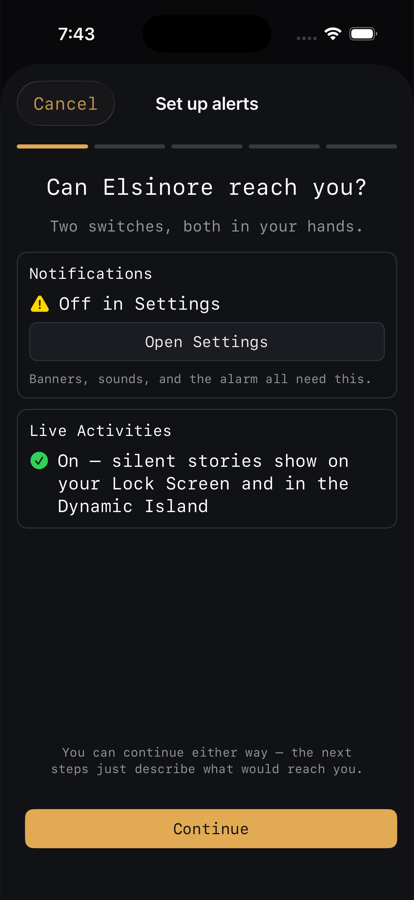
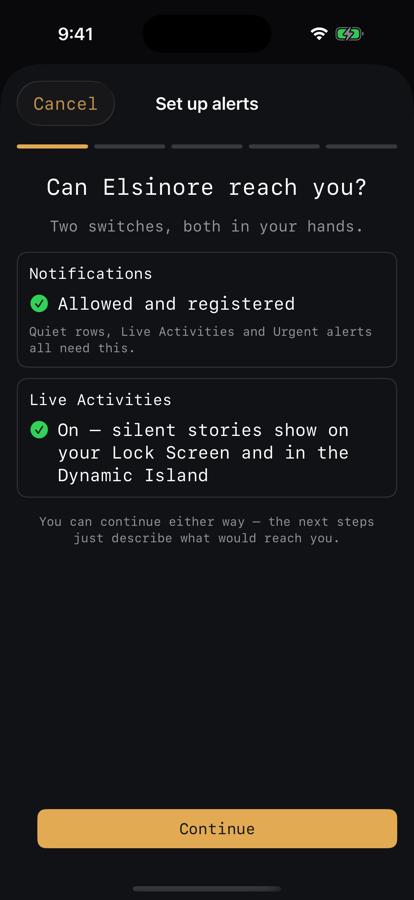
Elsinore help: new five-tab screenshots, a Review tab shot, current dates
Rebuilt from Elsinore main 69cca54 (PR #84).

diff --git a/Elsinore/docs/search-and-review.html b/Elsinore/docs/search-and-review.html
@@ -65,7 +65,7 @@
 recorded, newest first, with a search field over the top. The Review tab,
 <a href="#the-review-tab">described below</a>, shows the stories your server built from
 them.</p>
-<p><img alt="The Search tab on iPhone: a search field reading Camera, object, or zone, above a list of detections showing thumbnails, camera names such as gate-face and shed, detected objects, relative times, and an info button per row." class="shot" src="../img/search.png" /></p>
+<p><img alt="The Search tab on iPhone: a search field reading Camera, object, or zone, above a list of detections showing thumbnails, camera names such as alley-wide and gate-face, detected objects, relative times, and an info button per row." class="shot" src="../img/search.png" /></p>
 <h2 id="the-feed">The feed</h2>
 <p>One list, no tabs. Each row carries a thumbnail, the camera, the objects
 detected, how long ago it was, its severity, and an <strong>i</strong> button that opens
@@ -111,6 +111,7 @@ escalates in two stages:</p>
 <p>That second stage is what finds "person carrying a box" when no label says
 so.</p>
 <h2 id="the-review-tab">The Review tab</h2>
+<p><img alt="The Review tab on iPhone: the Review title with an Alerts and All switch, above large encounter cards; the top card is an Alert from 1 hour ago reading Person, Alley to Parking Area to Alley, with the cameras it crossed listed underneath." class="shot" src="../img/review.png" /></p>
 <p>Review shows the encounters your server assembled: large cards, newest
 first, with <strong>Alerts | All</strong> under the title and a divider where your last
 absence ended. Tap a card to expand it and play it in place (one at a time).
@@ -125,7 +126,7 @@ licence plate, Elsinore shows that name on the row, on the
 excluding bad sightings all happen in the sidecar's own web interface, not
 in the app. See <a href="sidecar.html#the-operator-manual">the sidecar's guide</a>.</p>
 <footer class="pagefoot">
-<p>Last updated: October 17, 2026</p>
+<p>Last updated: October 19, 2026</p>
 <p>Elsinore is not affiliated with the Frigate project. Contact:
 <a href="mailto:helicopterrun@gmail.com">helicopterrun@gmail.com</a></p>
 <p><a href="../index.html">Home</a> &middot; <a href="../support.html">Support</a> &middot;

diff --git a/Elsinore/docs/scrub.html b/Elsinore/docs/scrub.html
@@ -64,7 +64,7 @@
 </details>
 <p>Scrub is a vertical reel of recorded footage that you drag through, with the
 nearest event riding along above it.</p>
-<p><img alt="The Scrub reel on iPhone for the camera stairway-wide: a still frame at the top, a dossier card showing a person at 74 percent with an info tile and a camera tile, and below them a vertical reel marked with the current time 8:56:46p and object glyphs." class="shot" src="../img/scrub.png" /></p>
+<p><img alt="The Scrub page on iPhone for the camera gate-face: the picture at the top; below it the Previous and Next chips, REPLAY, LIVE, and a dossier card showing a person at 76 percent with an info tile and a camera tile; below them the vertical reel marked with the time 9:11:36a and event glyphs." class="shot" src="../img/scrub.png" /></p>
 <h2 id="images-to-find-video-to-confirm">Images to find, video to confirm</h2>
 <p>The reel is built on still frames, not video. Finding the moment you want is
 an image problem: you recognise a shape in a thumbnail far faster than you
@@ -166,7 +166,7 @@ right. Hover for a larger still, click to jump there, and pinch to change the
 zoom. The <strong>Explore</strong> button in the toolbar (Command-Shift-E) adds a timeline
 of every camera; see <a href="investigate.html#explore-on-the-mac">Explore on the Mac</a>.</p>
 <footer class="pagefoot">
-<p>Last updated: October 18, 2026</p>
+<p>Last updated: October 19, 2026</p>
 <p>Elsinore is not affiliated with the Frigate project. Contact:
 <a href="mailto:helicopterrun@gmail.com">helicopterrun@gmail.com</a></p>
 <p><a href="../index.html">Home</a> &middot; <a href="../support.html">Support</a> &middot;

diff --git a/Elsinore/docs/alerts.html b/Elsinore/docs/alerts.html
@@ -78,7 +78,7 @@ has no Apple Push integration of its own, so without the sidecar there is
 nothing to send a notification.</p>
 <h2 id="the-alerts-setup-flow">The Alerts Setup flow</h2>
 <p>Settings › Alerts › <strong>Set up alerts</strong>. Five steps.</p>
-<p><img alt="The first step of Set up alerts on iPhone, headed Can Elsinore reach you, with a Notifications tile warning it is off in Settings and a Live Activities tile confirming it is on." class="shot" src="../img/alerts.png" /></p>
+<p><img alt="The first step of Set up alerts on iPhone, headed Can Elsinore reach you, with a Notifications tile reading Allowed and registered and a Live Activities tile confirming it is on." class="shot" src="../img/alerts.png" /></p>
 <h3 id="1-permission">1. Permission</h3>
 <p>"Can Elsinore reach you? Two switches, both in your hands." Two tiles:
 <strong>Notifications</strong> ("Quiet rows, Live Activities and Urgent alerts all need this") and, on
@@ -259,7 +259,7 @@ Swipe a row to say it was too much or not enough, or to silence it. This is
 the fastest way to converge on the alerts you actually want, because you are
 correcting real decisions rather than guessing at dials.</p>
 <footer class="pagefoot">
-<p>Last updated: October 16, 2026</p>
+<p>Last updated: October 19, 2026</p>
 <p>Elsinore is not affiliated with the Frigate project. Contact:
 <a href="mailto:helicopterrun@gmail.com">helicopterrun@gmail.com</a></p>
 <p><a href="../index.html">Home</a> &middot; <a href="../support.html">Support</a> &middot;

diff --git a/Elsinore/docs/live.html b/Elsinore/docs/live.html
@@ -62,7 +62,7 @@
 </div>
 </details>
 <p>The Live tab shows every camera at once and gets out of the way.</p>
-<p><img alt="The Live grid on iPhone: ten camera tiles in two columns, each labelled with the camera name and a green status dot, over a tab bar reading Live, Scrub, Search, Settings." class="shot" src="../img/live.png" /></p>
+<p><img alt="The Live grid on iPhone: ten camera tiles in two columns, each labelled with the camera name and a green status dot, over a tab bar reading Live, Scrub, Search, Review, Settings." class="shot" src="../img/live.png" /></p>
 <h2 id="the-grid">The grid</h2>
 <p>Each tile carries the camera name, a status dot, and a still that refreshes
 as the app polls. Tapping a tile opens that camera on the Scrub tab.</p>
@@ -127,7 +127,7 @@ Connection Doctor › <strong>Copy live diagnostics</strong> into a bug report.<
 you see on the <a href="scrub.html#the-live-chip">Scrub reel's LIVE chip</a> is about
 your position in the recording, not about stream latency.</p>
 <footer class="pagefoot">
-<p>Last updated: September 21, 2026</p>
+<p>Last updated: October 19, 2026</p>
 <p>Elsinore is not affiliated with the Frigate project. Contact:
 <a href="mailto:helicopterrun@gmail.com">helicopterrun@gmail.com</a></p>
 <p><a href="../index.html">Home</a> &middot; <a href="../support.html">Support</a> &middot;

diff --git a/Elsinore/index.html b/Elsinore/index.html
@@ -90,7 +90,7 @@ menu bar companion, and Handoff. [Read more](docs/mac.html)
 
 </div>
 
-<p><img alt="The Live grid on iPhone, showing ten camera tiles with names and status dots above the Live, Scrub, Search, and Settings tab bar." class="shot" src="img/live.png" /></p>
+<p><img alt="The Live grid on iPhone, showing ten camera tiles with names and status dots above the Live, Scrub, Search, Review, and Settings tab bar." class="shot" src="img/live.png" /></p>
 <h2 id="what-you-need">What you need</h2>
 <ul>
 <li>Your own Frigate server. Frigate 0.17 or later is the actively tested
@@ -117,7 +117,7 @@ covers optional push notifications.</p>
 <li><a href="support.html">Support</a>: quick answers and how to report a bug.</li>
 </ul>
 <footer class="pagefoot">
-<p>Last updated: September 24, 2026</p>
+<p>Last updated: October 19, 2026</p>
 <p>Elsinore is not affiliated with the Frigate project. Contact:
 <a href="mailto:helicopterrun@gmail.com">helicopterrun@gmail.com</a></p>
 <p><a href="index.html">Home</a> &middot; <a href="support.html">Support</a> &middot;

diff --git a/Elsinore/privacy.html b/Elsinore/privacy.html
@@ -164,7 +164,7 @@ URL with a new effective date.</p>
 <p>Questions about this policy or the app's data practices can be sent to
 <a href="&#109;&#97;&#105;&#108;&#116;&#111;&#58;&#104;&#101;&#108;&#105;&#99;&#111;&#112;&#116;&#101;&#114;&#114;&#117;&#110;&#64;&#103;&#109;&#97;&#105;&#108;&#46;&#99;&#111;&#109;">&#104;&#101;&#108;&#105;&#99;&#111;&#112;&#116;&#101;&#114;&#114;&#117;&#110;&#64;&#103;&#109;&#97;&#105;&#108;&#46;&#99;&#111;&#109;</a>.</p>
 <footer class="pagefoot">
-<p>Last updated: September 24, 2026</p>
+<p>Last updated: October 19, 2026</p>
 <p>Elsinore is not affiliated with the Frigate project. Contact:
 <a href="mailto:helicopterrun@gmail.com">helicopterrun@gmail.com</a></p>
 <p><a href="index.html">Home</a> &middot; <a href="support.html">Support</a> &middot;

diff --git a/Elsinore/docs/investigate.html b/Elsinore/docs/investigate.html
@@ -264,7 +264,7 @@ card's context menu, or the <strong>Explore</strong> button on a Review card.</p
 timeline's span, as pinching does. In the Reel menu, <strong>Option-Shift-Left</strong> and
 <strong>Option-Shift-Right</strong> step exactly 60 seconds.</p>
 <footer class="pagefoot">
-<p>Last updated: October 18, 2026</p>
+<p>Last updated: October 19, 2026</p>
 <p>Elsinore is not affiliated with the Frigate project. Contact:
 <a href="mailto:helicopterrun@gmail.com">helicopterrun@gmail.com</a></p>
 <p><a href="../index.html">Home</a> &middot; <a href="../support.html">Support</a> &middot;

diff --git a/Elsinore/support.html b/Elsinore/support.html
@@ -104,7 +104,7 @@ reach the address you configured.</p>
 <p>The <a href="privacy.html">privacy policy</a> describes exactly what the app stores,
 what it does not do, and what the optional push relay can see.</p>
 <footer class="pagefoot">
-<p>Last updated: September 22, 2026</p>
+<p>Last updated: October 19, 2026</p>
 <p>Elsinore is not affiliated with the Frigate project. Contact:
 <a href="mailto:helicopterrun@gmail.com">helicopterrun@gmail.com</a></p>
 <p><a href="index.html">Home</a> &middot; <a href="support.html">Support</a> &middot;

diff --git a/Elsinore/docs/index.html b/Elsinore/docs/index.html
@@ -88,7 +88,7 @@ encounters, and Investigate come from the optional
 <a href="sidecar.html">Marcellus sidecar</a>. Pages that describe sidecar-only
 behaviour say so at the top.</p>
 <footer class="pagefoot">
-<p>Last updated: September 21, 2026</p>
+<p>Last updated: October 19, 2026</p>
 <p>Elsinore is not affiliated with the Frigate project. Contact:
 <a href="mailto:helicopterrun@gmail.com">helicopterrun@gmail.com</a></p>
 <p><a href="../index.html">Home</a> &middot; <a href="../support.html">Support</a> &middot;

diff --git a/Elsinore/docs/sidecar.html b/Elsinore/docs/sidecar.html
@@ -150,7 +150,7 @@ and correctable by hand, which is what makes the
 <a href="investigate.html#same-and-not-same">Same and Not same</a> corrections in the
 app worth the swipe.</p>
 <footer class="pagefoot">
-<p>Last updated: September 21, 2026</p>
+<p>Last updated: October 19, 2026</p>
 <p>Elsinore is not affiliated with the Frigate project. Contact:
 <a href="mailto:helicopterrun@gmail.com">helicopterrun@gmail.com</a></p>
 <p><a href="../index.html">Home</a> &middot; <a href="../support.html">Support</a> &middot;

diff --git a/Elsinore/docs/getting-started.html b/Elsinore/docs/getting-started.html
@@ -120,7 +120,7 @@ tells you which rung broke and what to do about it. The
 <a href="troubleshooting.html">troubleshooting page</a> groups the common failures by
 symptom.</p>
 <footer class="pagefoot">
-<p>Last updated: October 16, 2026</p>
+<p>Last updated: October 19, 2026</p>
 <p>Elsinore is not affiliated with the Frigate project. Contact:
 <a href="mailto:helicopterrun@gmail.com">helicopterrun@gmail.com</a></p>
 <p><a href="../index.html">Home</a> &middot; <a href="../support.html">Support</a> &middot;

diff --git a/Elsinore/docs/connect.html b/Elsinore/docs/connect.html
@@ -190,7 +190,7 @@ report if live video does not start. <strong>Clear</strong> empties it.</p>
   zone classifications, and returns to the welcome screen.</li>
 </ul>
 <footer class="pagefoot">
-<p>Last updated: October 16, 2026</p>
+<p>Last updated: October 19, 2026</p>
 <p>Elsinore is not affiliated with the Frigate project. Contact:
 <a href="mailto:helicopterrun@gmail.com">helicopterrun@gmail.com</a></p>
 <p><a href="../index.html">Home</a> &middot; <a href="../support.html">Support</a> &middot;
